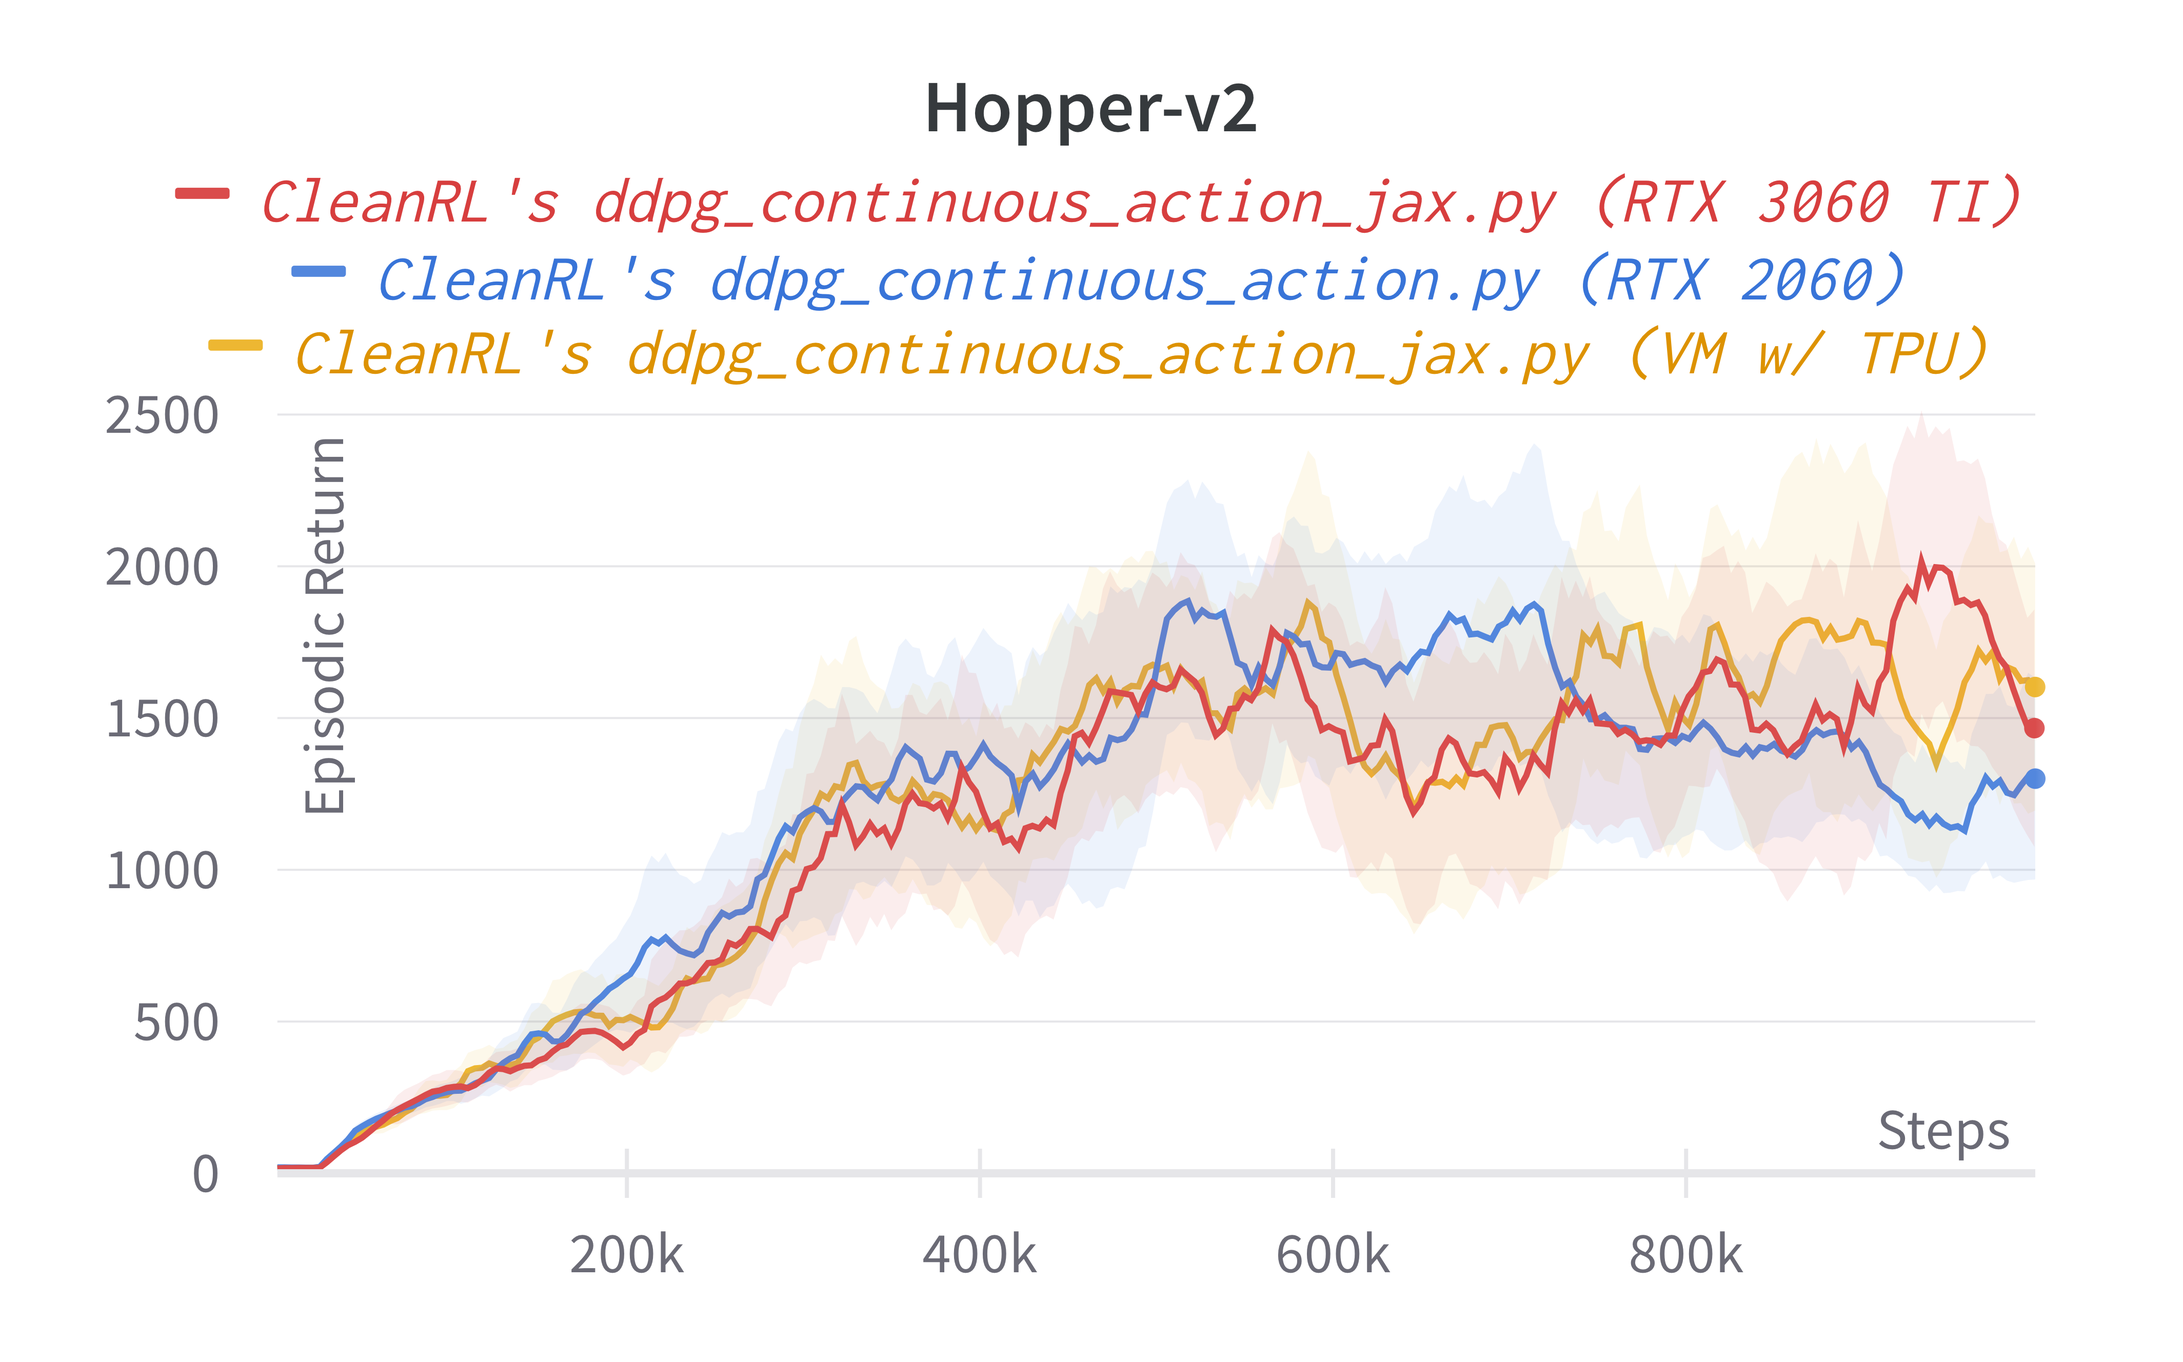
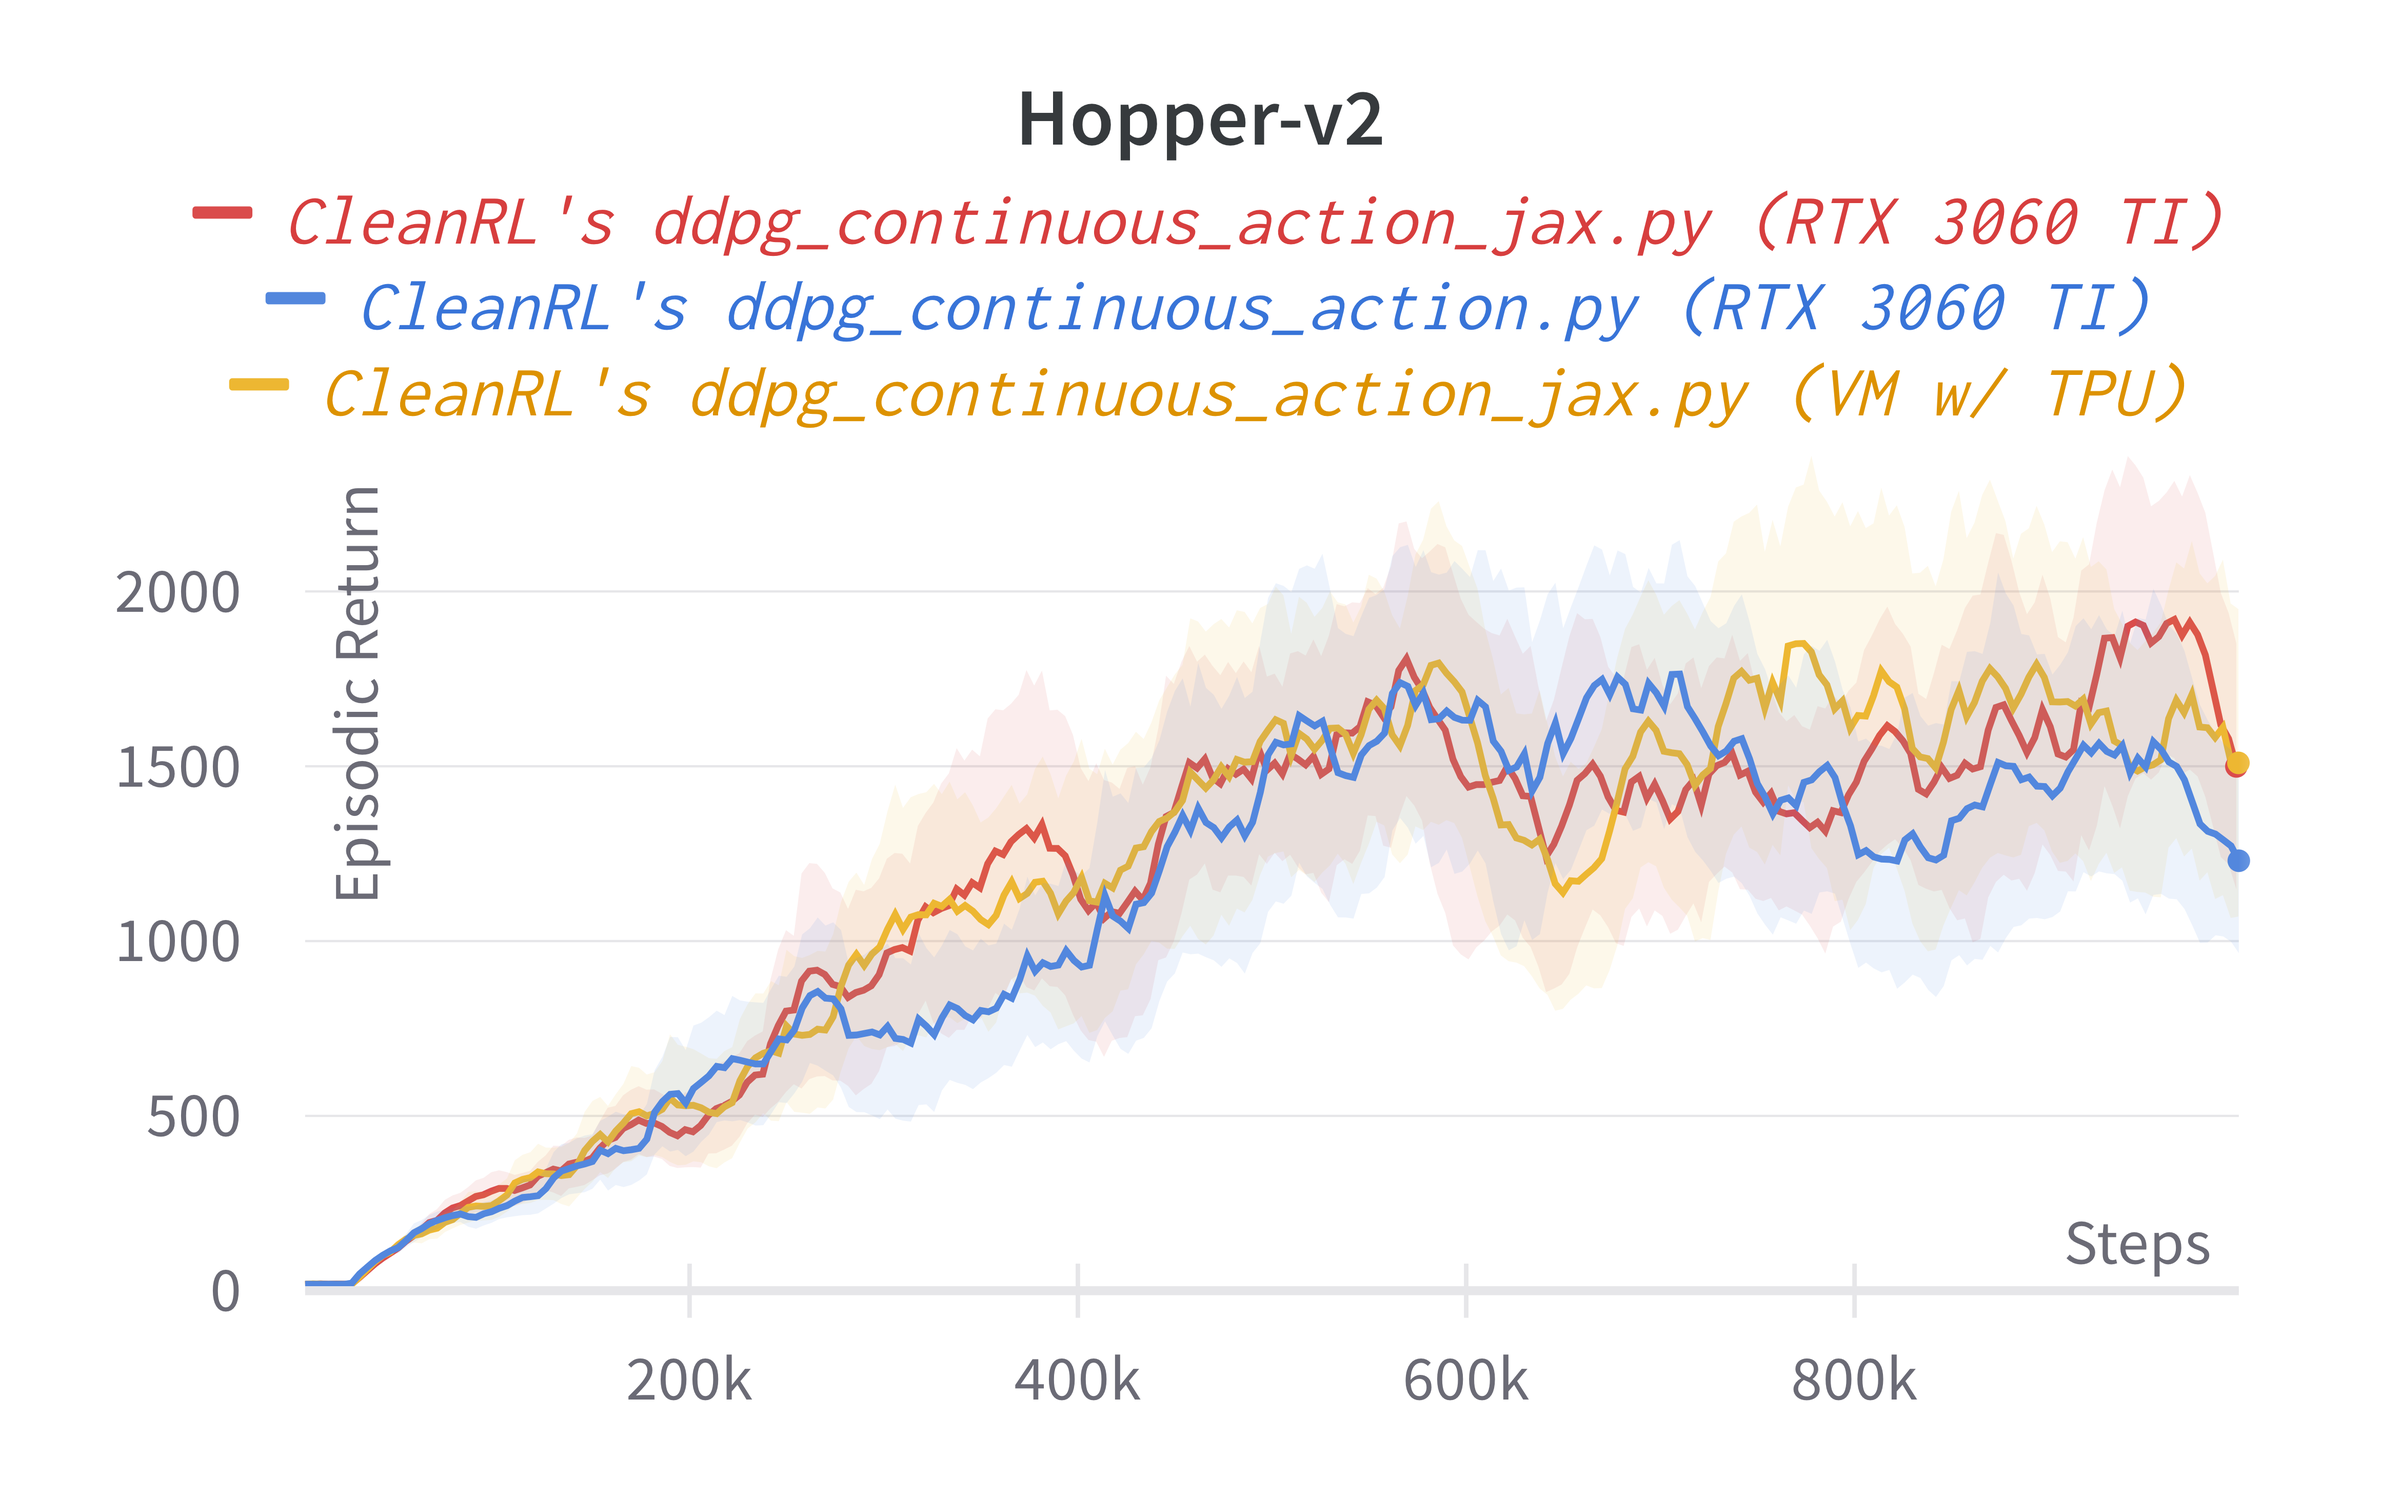
Stop adding action bias twice in DDPG jax (#298)
* stop adding action bias twice

* run pre-commit

* update docs

* quick fix

diff --git a/cleanrl/ddpg_continuous_action_jax.py b/cleanrl/ddpg_continuous_action_jax.py
@@ -228,9 +228,9 @@ if __name__ == "__main__":
             actions = actor.apply(actor_state.params, obs)
             actions = np.array(
                 [
-                    (
-                        jax.device_get(actions)[0] + np.random.normal(action_bias, action_scale * args.exploration_noise)[0]
-                    ).clip(envs.single_action_space.low, envs.single_action_space.high)
+                    (jax.device_get(actions)[0] + np.random.normal(0, action_scale * args.exploration_noise)[0]).clip(
+                        envs.single_action_space.low, envs.single_action_space.high
+                    )
                 ]
             )
 

diff --git a/docs/rl-algorithms/ddpg.md b/docs/rl-algorithms/ddpg.md
@@ -292,12 +292,11 @@ To run benchmark experiments, see :material-github: [benchmark/ddpg.sh](https://
 
 Below are the average episodic returns for [`ddpg_continuous_action_jax.py`](https://github.com/vwxyzjn/cleanrl/blob/master/cleanrl/ddpg_continuous_action_jax.py) (3 random seeds). To ensure the quality of the implementation, we compared the results against (Fujimoto et al., 2018)[^2].
 
-| Environment      | [`ddpg_continuous_action_jax.py`](https://github.com/vwxyzjn/cleanrl/blob/master/cleanrl/ddpg_continuous_action_jax.py) (RTX 3060 TI) | [`ddpg_continuous_action_jax.py`](https://github.com/vwxyzjn/cleanrl/blob/master/cleanrl/ddpg_continuous_action_jax.py) (VM w/ TPU) | [`ddpg_continuous_action.py`](https://github.com/vwxyzjn/cleanrl/blob/master/cleanrl/ddpg_continuous_action.py) (RTX 2060) | [`OurDDPG.py`](https://github.com/sfujim/TD3/blob/master/OurDDPG.py) (Fujimoto et al., 2018, Table 1)[^2]    |
+| Environment      | [`ddpg_continuous_action_jax.py`](https://github.com/vwxyzjn/cleanrl/blob/master/cleanrl/ddpg_continuous_action_jax.py) (RTX 3060 TI) | [`ddpg_continuous_action_jax.py`](https://github.com/vwxyzjn/cleanrl/blob/master/cleanrl/ddpg_continuous_action_jax.py) (VM w/ TPU) | [`ddpg_continuous_action.py`](https://github.com/vwxyzjn/cleanrl/blob/master/cleanrl/ddpg_continuous_action.py) (RTX 3060 TI) | [`OurDDPG.py`](https://github.com/sfujim/TD3/blob/master/OurDDPG.py) (Fujimoto et al., 2018, Table 1)[^2]    |
 | ----------- | ----------- | ----------- | ----------- | ----------- |
-| HalfCheetah |  9910.53 ± 673.49 | 9790.72 ± 1494.85   | 10210.57 ± 196.22      |8577.29  |
-| Walker2d |  1397.60 ± 677.12  | 1314.83 ± 689.71 | 1661.14 ± 250.01     |  3098.11 | 
-| Hopper |  1603.5 ± 727.281  | 1602.20 ± 696.11 | 1007.44 ± 148.29         |  1860.02 | 
-
+| HalfCheetah |  9592.25 ± 135.10 | 9125.06 ± 1477.58  | 10210.57 ± 196.22      |8577.29  |
+| Walker2d |  1083.15 ± 567.65  | 1303.82 ± 448.41 | 1661.14 ± 250.01     |  3098.11 | 
+| Hopper |  1275.28 ± 209.60  | 1145.05 ± 41.95 | 1007.44 ± 148.29         |  1860.02 |     
 
 ???+ info
 
